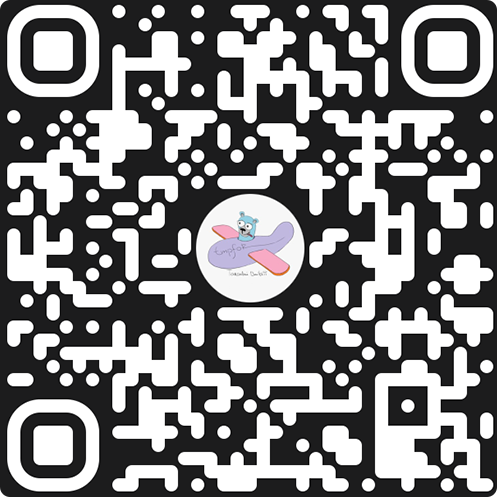
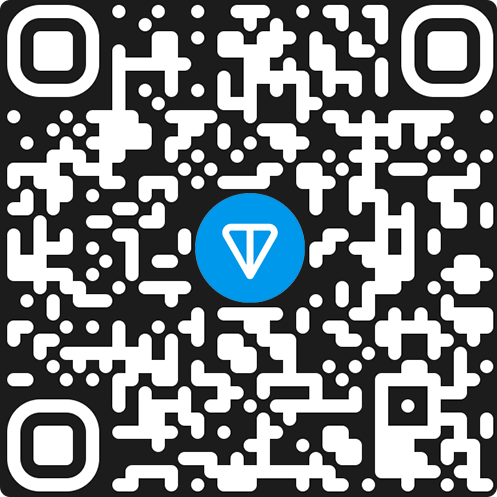
update UI tab

Changed region(s): [[0.3924, 0.3622, 0.6338, 0.6338]]

diff --git a/internal/ui/custom_entry.go b/internal/ui/custom_entry.go
@@ -11,7 +11,6 @@ import (
 
 	"goscout/internal/scoutssh"
 	"image/color"
-	"image/png"
 	"log"
 	"os"
 	"path/filepath"
@@ -293,7 +292,7 @@ func (e *saveSSHconfig) TypedShortcut(shortcut fyne.Shortcut) {
 				return
 			}
 			file.Close()
-			e.ui.updateHosts()
+			e.ui.SetHosts()
 			e.ui.ToggleContent()
 
 			content := container.NewVBox(
@@ -310,21 +309,30 @@ func (e *saveSSHconfig) TypedShortcut(shortcut fyne.Shortcut) {
 }
 
 func (ui *UI) ToggleContent() {
-	if ui.sshConfigEditor.Visible() {
-		ui.sshConfigEditor.Hide()
-		if ui.fyneImg != nil {
-			ui.fyneImg.Show()
-		} else {
-			ui.content.Show()
+
+	if ui.sshConfigEditor == nil {
+		file, err := os.Open(filepath.Join(os.Getenv("HOME"), ".ssh", "config"))
+		if err != nil {
+			log.Fatal(err)
 		}
+		defer file.Close()
+
+		buffer := make([]byte, 1024)
+		n, err := file.Read(buffer)
+		if err != nil && err != io.EOF {
+			log.Fatalln("EOF", err)
+		}
+
+		ui.sshConfigEditor = actionSSHconfig(ui, file.Name())
+		ui.sshConfigEditor.SetText(string(buffer[:n]))
+		ui.connectionTab.Content = container.NewBorder(container.NewVBox(ui.fyneSelect), nil, nil, nil, container.NewVScroll(ui.sshConfigEditor))
 	} else {
-		if ui.fyneImg != nil {
-			ui.fyneImg.Hide()
-		} else {
-			ui.content.Hide()
-		}
-		ui.sshConfigEditor.Show()
+		ui.sshConfigEditor = nil
+		fmt.Println("OK")
+		ui.connectionTab.Content = container.NewBorder(container.NewVBox(ui.fyneSelect), ui.bottomConnection, nil, nil, container.NewVScroll(ui.logsLabel))
+
 	}
+
 }
 
 func fetchResponseBody(webEntry string) (*http.Response, error) {
@@ -362,13 +370,7 @@ func parseURL(urlStr string) *url.URL {
 	return parsedURL
 }
 
-func (ui *UI) CreateConnectionContent() *fyne.Container {
-	ui.updateTagLabel()
-	ui.updateContentContainer()
-	return container.NewBorder(ui.fyneSelect, ui.tagLabel, nil, nil, ui.contentContainer)
-}
-
-func (ui *UI) updateTagLabel() {
+func (ui *UI) SetVersion() {
 	resp, _ := fetchResponseBody("api.github.com/repos/" + repo + "/tags")
 	defer resp.Body.Close()
 
@@ -388,43 +390,6 @@ func (ui *UI) updateTagLabel() {
 			&widget.HyperlinkSegment{Text: repo, URL: parseURL("https://github.com/" + repo)},
 		)
 	}
-}
-
-func (ui *UI) updateContentContainer() {
-	resp, err := fetchResponseBody("raw.githubusercontent.com/" + repo + "/main/docs/images/GoScout.png")
-	if err != nil {
-		ui.setDefaultContentContainer()
-		return
-	}
-
-	img, err := png.Decode(resp.Body)
-	if err != nil {
-		ui.setDefaultContentContainer()
-		return
-	}
-
-	ui.fyneImg = canvas.NewImageFromImage(img)
-	ui.fyneImg.FillMode = canvas.ImageFillContain
-
-	ui.fyneImg.SetMinSize(fyne.NewSize(300, 300))
-	imageContainer := container.NewVBox(layout.NewSpacer(), ui.fyneImg)
-
-	ui.logsLabel.Wrapping = fyne.TextWrapWord
-
-	ui.content = container.NewBorder(nil, container.NewVBox(container.NewCenter(imageContainer)), nil, nil, container.NewVScroll(ui.logsLabel))
-
-	ui.contentContainer = container.NewStack(ui.sshConfigEditor, ui.content)
-	ui.sshConfigEditor.Hide()
-	ui.label.Show()
-}
-
-func (ui *UI) setDefaultContentContainer() {
-	ui.label = widget.NewLabelWithStyle("GoScout ❤s you - support the project development", fyne.TextAlignCenter, fyne.TextStyle{Bold: true})
-	ui.logsLabel.Wrapping = fyne.TextWrapWord
-
-	ui.content = container.NewBorder(nil, container.NewVBox(container.NewCenter(ui.label)), nil, nil, container.NewVScroll(ui.logsLabel))
-	ui.contentContainer = container.NewStack(ui.content, ui.sshConfigEditor)
-	ui.sshConfigEditor.Hide()
 }
 
 func newCustomMultiLineEntry(ui *UI) *customMultiLineEntry {

diff --git a/internal/ui/ui.go b/internal/ui/ui.go
@@ -2,10 +2,7 @@ package ui
 
 import (
 	"fmt"
-	"io"
-	"log"
-	"os"
-	"path/filepath"
+	"image/png"
 	"strings"
 
 	"goscout/internal/scoutssh"
@@ -25,7 +22,7 @@ const (
 	configFile = ".goscout.json"
 )
 
-func (ui *UI) updateHosts() {
+func (ui *UI) SetHosts() {
 	hosts, err := scoutssh.GetSSHHosts()
 	if err != nil {
 
@@ -38,6 +35,33 @@ func (ui *UI) updateHosts() {
 	ui.fyneSelect.Refresh()
 }
 
+func (ui *UI) setBottom() {
+	resp, _ := fetchResponseBody("raw.githubusercontent.com/" + repo + "/main/docs/images/TON.png")
+	img, err := png.Decode(resp.Body)
+	if err == nil {
+		ui.fyneImg = canvas.NewImageFromImage(img)
+		ui.fyneImg.FillMode = canvas.ImageFillContain
+		ui.fyneImg.SetMinSize(fyne.NewSize(72, 72))
+	} else {
+		ui.banner = widget.NewLabelWithStyle("GoScout ❤s you", fyne.TextAlignCenter, fyne.TextStyle{Bold: true})
+		ui.logsLabel.Wrapping = fyne.TextWrapWord
+	}
+
+	ui.logsLabel.Wrapping = fyne.TextWrapWord
+	leftBottomContainer := container.NewBorder(
+		nil,
+		nil,
+		nil,
+		ui.tagLabel,
+	)
+
+	if err == nil {
+		ui.bottomConnection = container.NewBorder(nil, nil, leftBottomContainer, ui.fyneImg)
+	} else {
+		ui.bottomConnection = container.NewBorder(nil, nil, leftBottomContainer, ui.banner)
+	}
+
+}
 func SetupWindow(fyneWindow fyne.Window, cfg *Config) {
 	ui := &UI{
 		fyneWindow:       fyneWindow,
@@ -51,12 +75,15 @@ func SetupWindow(fyneWindow fyne.Window, cfg *Config) {
 		sideLabels:       map[*container.TabItem]*widget.Label{},
 		entryTexts:       map[int]*customMultiLineEntry{},
 		entryFiles:       map[int]*widget.Entry{},
-		sshConfigEditor:  &saveSSHconfig{},
+		sshConfigEditor:  nil,
 		contentContainer: &fyne.Container{},
 		fyneImg:          &canvas.Image{},
-		label:            &widget.Label{},
+		banner:           &widget.Label{},
 		tagLabel:         &widget.RichText{},
 		logsLabel:        &widget.Label{},
+		content:          &fyne.Container{},
+		connectionTab:    &container.TabItem{},
+		bottomConnection: &fyne.Container{},
 	}
 
 	defer ui.fyneWindow.Close()
@@ -75,28 +102,15 @@ func SetupWindow(fyneWindow fyne.Window, cfg *Config) {
 		go ui.connectToHost(selected)
 	}
 
-	connectionTab := container.NewTabItem("Hosts", nil)
-	connectionTab.Icon = theme.ComputerIcon()
+	ui.connectionTab = container.NewTabItem("Hosts", nil)
+	ui.connectionTab.Icon = theme.ComputerIcon()
 
 	if len(ui.fyneTabs.Items) == 0 {
-		ui.updateHosts()
-		file, err := os.Open(filepath.Join(os.Getenv("HOME"), ".ssh", "config"))
-		if err != nil {
-			log.Fatal(err)
-		}
-		defer file.Close()
-
-		buffer := make([]byte, 1024)
-		n, err := file.Read(buffer)
-		if err != nil && err != io.EOF {
-			log.Fatalln("EOF", err)
-		}
-
-		ui.sshConfigEditor = actionSSHconfig(ui, file.Name())
-		ui.sshConfigEditor.SetText(string(buffer[:n]))
-
-		connectionTab.Content = ui.CreateConnectionContent()
-		ui.fyneTabs.Append(connectionTab)
+		ui.SetHosts()
+		ui.SetVersion()
+		ui.setBottom()
+		ui.connectionTab.Content = container.NewBorder(container.NewVBox(ui.fyneSelect), ui.bottomConnection, nil, nil, container.NewVScroll(ui.logsLabel))
+		ui.fyneTabs.Append(ui.connectionTab)
 	}
 
 	ui.fyneWindow.SetContent(ui.fyneTabs)

diff --git a/internal/ui/type.go b/internal/ui/type.go
@@ -32,10 +32,12 @@ type UI struct {
 	sshConfigEditor  *saveSSHconfig
 	contentContainer *fyne.Container
 	fyneImg          *canvas.Image
-	label            *widget.Label
+	banner           *widget.Label
 	tagLabel         *widget.RichText
 	logsLabel        *widget.Label
 	content          *fyne.Container
+	connectionTab    *container.TabItem
+	bottomConnection *fyne.Container
 }
 
 type UIParams struct {
